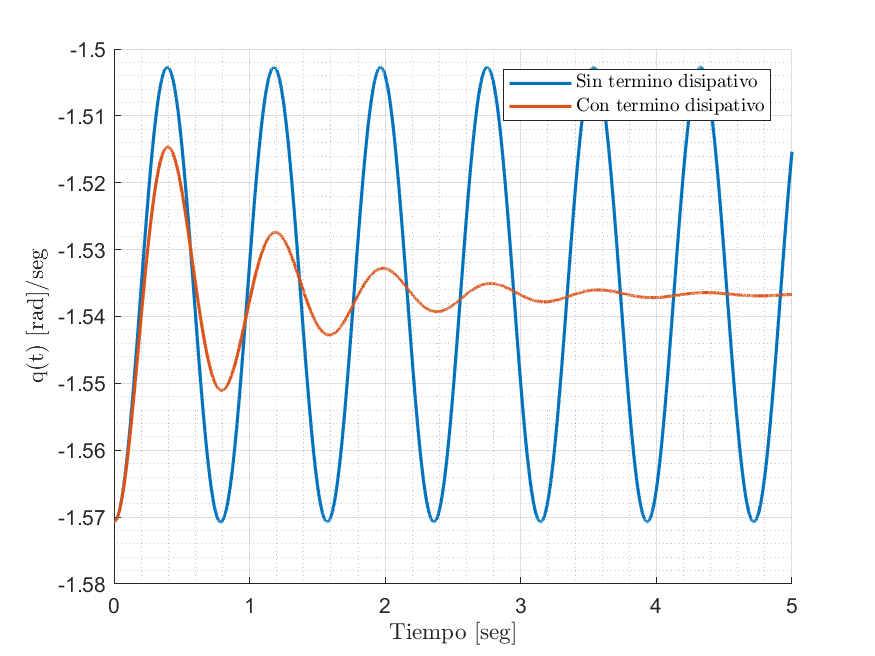
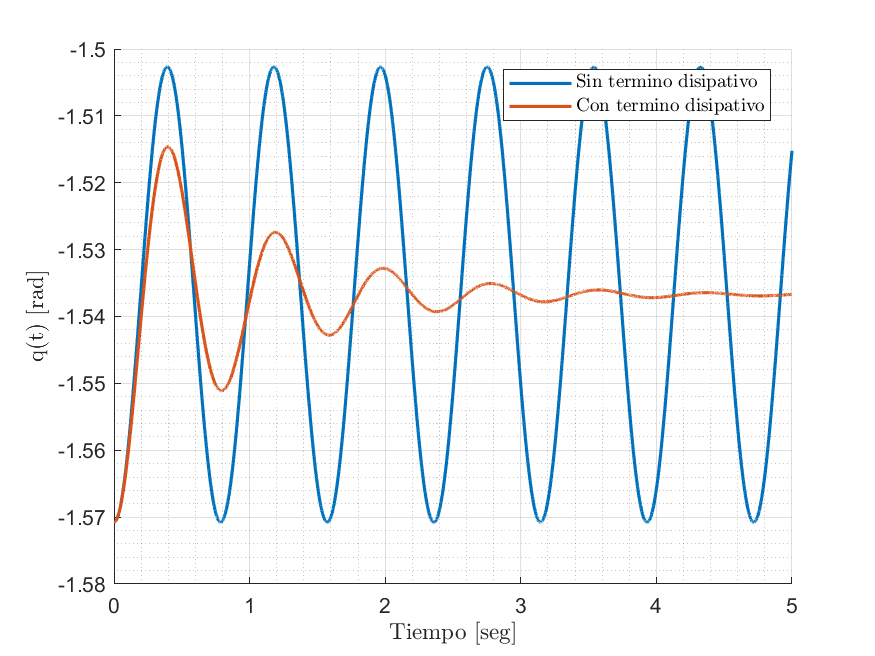
Code finished

diff --git a/code/main.m b/code/main.m
@@ -89,9 +89,9 @@ q2p = 1/M * (tau - b*qp - C - G);
 
 fprintf('El modelo directo resulta \nq2p = %s\n', q2p)
 
-M_evaluate = vpa(subs(M, [m a xG yG Iozz], [m_value a_value xG_hat yG_hat Iozz_hat]),7)
-C_evaluate = vpa(subs(C, [m a xG yG Iozz], [m_value a_value xG_hat yG_hat Iozz_hat]),7)
-G_evaluate = vpa(subs(G, [m a xG yG Iozz g1], [m_value a_value xG_hat yG_hat Iozz_hat g_value]),7)
+M_evaluate = vpa(subs(M, [m a xG yG Iozz], [m_value a_value xG_hat yG_hat Iozz_hat]),7);
+C_evaluate = vpa(subs(C, [m a xG yG Iozz], [m_value a_value xG_hat yG_hat Iozz_hat]),7);
+G_evaluate = vpa(subs(G, [m a xG yG Iozz g1], [m_value a_value xG_hat yG_hat Iozz_hat g_value]),7);
 
 u = [0.1, 2, 3];                % torque aplicados a simular [Nm]
 b_values = [0 , 0.1];           % coeficiente viscoso [Nm/rad/s]

diff --git a/code/tools/LSestimation.m b/code/tools/LSestimation.m
@@ -11,8 +11,9 @@ q_dot_value =   datos(:,3);
 q_2dot_value =  datos(:,4);
 tau_value = datos(:,5);
 
-phi_kn = [ q_2dot_value*a_value^2 + g_value*a_value*cos(q_value) ];
-phi_un = [ 2*q_2dot_value*a_value + g_value*cos(q_value) , -g_value*sin(q_value) , q_2dot_value];
+phi_kn = [q_2dot_value*a_value^2 + g_value*a_value*cos(q_value)];
+phi_un = [2*q_2dot_value*a_value + g_value*cos(q_value), ...
+            -g_value*sin(q_value), q_2dot_value];
 
 fprintf('El numero de condicion de la matriz es: %.2f \n', cond(phi_un))
 p_hat = pinv(phi_un) * (tau_value - phi_kn * m_value);

diff --git a/code/tools/plotTrajectory.m b/code/tools/plotTrajectory.m
@@ -6,7 +6,7 @@ function plotTrajectory(x1,y1,x2, y2, img)
     legend({'Sin termino disipativo' 'Con termino disipativo'},...
         'Interpreter','Latex', "location", "northeast");
     xlabel('Tiempo [seg]','Interpreter','Latex')
-    ylabel('q(t) [rad]/seg','Interpreter','Latex')
+    ylabel('q(t) [rad]','Interpreter','Latex')
     grid on; grid minor;
     print(strcat('./plots/trayectoria_', num2str(img), '.png'),'-dpng');
 end

diff --git a/code/tools/myOde45.m b/code/tools/myOde45.m
@@ -6,8 +6,8 @@ function [tode, X] = myOde45(tspan, x0, odeOptions, u, b_value)
         q = x(1);
         q_p = x(2);
         
-        G = 2.938*cos(q) + 9.068e-5*sin(q);
-        M = 0.04599;
+        G = 2.938334*cos(q) + 0.00009068205*sin(q);
+        M = 0.04598582;
         C = 0.0;
         
         q_2p = M^-1*(u - b_value*q_p - C*q_p - G);
